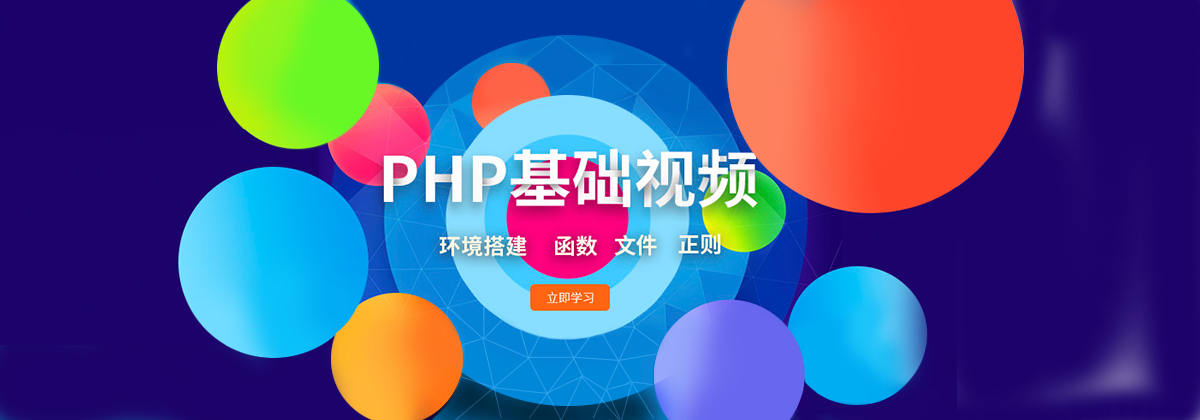
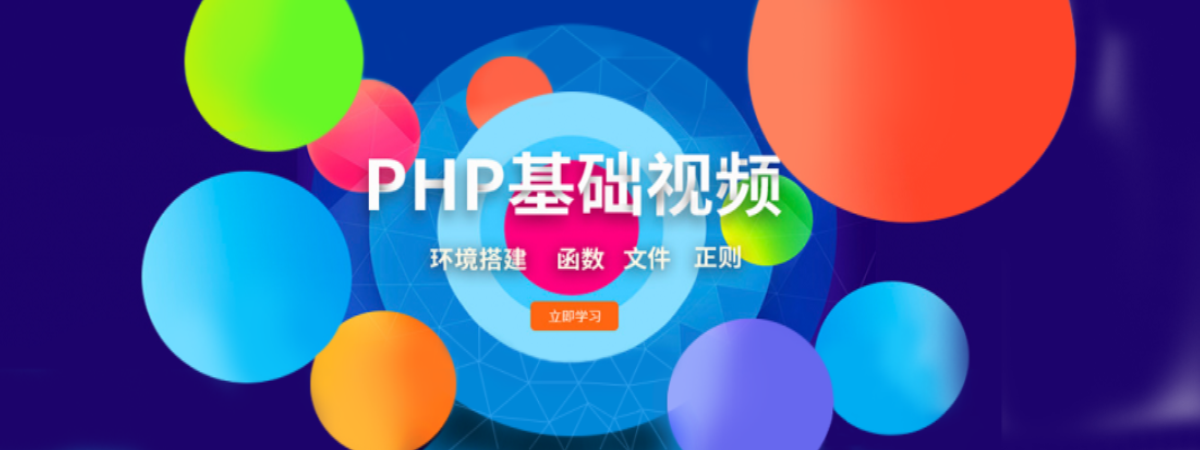
更換背景圖片

diff --git a/大型案例-學成在線/banner.css b/大型案例-學成在線/banner.css
@@ -1,15 +1,17 @@
-.banner{
+.banner {
     height: 450px;
 
-    background-color: blue;
+    background-color: rgba(30, 5, 109);
 }
 
-.banner .write{
+.banner .write {
     width: 1200px;
     height: 450px;
 
-    background-color: pink;
+    background-color: rgb(222, 0, 37);
+    background-image: url(images/banner2_20190819_210028.png);
 }
+
 
 .banner .sub-nav ul {
 
@@ -18,7 +20,8 @@
     height: 450px;
     width: 200px;
 }
-.banner .sub-nav ul li{
+
+.banner .sub-nav ul li {
 
     float: left;
 
@@ -27,10 +30,10 @@
 
     /* 防止 a 連結 padding 溢出 */
     overflow: hidden;
-    
-    background-color: #777;
+
 }
-.banner .sub-nav li a{
+
+.banner .sub-nav li a {
     display: inline-block;
 
     height: 50px;
@@ -42,9 +45,9 @@
     line-height: 50px;
 
     color: #fff;
-    background-color: rgba(0, 0, 0, 0.1);
+    background-color: rgba(0, 0, 0, 0.3);
 }
 
-.banner .sub-nav a:hover{
+.banner .sub-nav a:hover {
     background-color: rgb(181, 101, 255);
 }

diff --git a/大型案例-學成在線/header.css b/大型案例-學成在線/header.css
@@ -1,7 +1,6 @@
 * {
     padding: 0;
     margin: 0;
-    background-color: #f4f4f4;
 }
 
 a {
